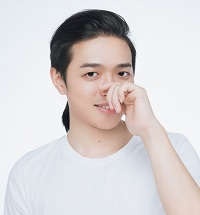
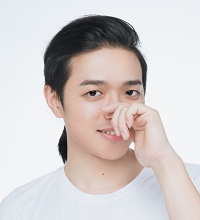
new photo and art part

diff --git a/index.html b/index.html
@@ -32,7 +32,7 @@
       <h1> Xin Chen - 陈欣 <br>
         <!--[CV - <a href="files/CV/chenxin_cv_cn_201803.pdf"><font size="4">中文</font></a> / <a href="files/CV/chenxin_cv_en_202007.pdf">English</a>]<br>-->
         <!--[CV - <font size="4">中文</font>/ <a href="files/CV/chenxin_cv_en_202011.pdf">English</a>]<br>-->
-        [<a href="files/CV/chenxin_cv_en_202108.pdf">Download CV</a>]<br>
+        <a href="files/CV/chenxin_cv_en_202108.pdf">Download CV</a> - 简历<br>
         [<a href="mailto:chenxin2@shanghaitech.edu.cn">Email</a> | <a href="https://github.com/ChenFengYe">GitHub</a> |
         <a href="https://www.linkedin.com/in/xin-chen-cs/">LinkedIn</a>]
         [<a href="https://aideadlin.es/?sub=ML,CV,NLP,RO,SP,DM">Conference Timer</a>]
@@ -47,6 +47,7 @@
           <ul class="menu">
             <!--<li><a href="index.html">Home</a></li-->
             <li class="mt-sm-0"><a href="#about" class="scroll">Bio</a></li>
+            <!-- <li class="mt-sm-3"><a href="./Art.html" class="scroll">Art</a></li> -->
             <li class="mt-sm-3"><a href="#publication" class="scroll">Publications</a></li>
             <li class="mt-sm-3"><a href="#experience" class="scroll">Experience</a></li>
             <li class="mt-sm-3"><a href="#skill" class="scroll">Skills</a></li>
@@ -103,20 +104,20 @@
         <h3 class="w3_head mb-5">Selected Publications <font size ="5"><a href="./Publication.html">(Complete List…)</a></font></h3>
         <!-- <h3 class="w3_head mb-5">Selected Publications (<a href="./Publication.html">Complete List…</a>)</h3> -->
         <div class="col-lg-12">
-          <div class="row paper-box">
+          <div class="row paper_box">
             <div class="col-md-3 col-12 paper_img"> <video
                 src="files/Paper/TOG2021_TightCap/project_page_TightCap/data/video_teaser.mp4" width="90%"
                 playsinline="" autoplay="autoplay" loop="loop" preload="" muted="" alt="Popup Image"
                 class="img-fluid"></div>
             <!-- .Icon ends here -->
-            <div class="col-md-9 col-12 paper-content">
+            <div class="col-md-9 col-12 paper_content">
               <h4><strong>TightCap</strong>: 3D Human Shape Capture with Clothing Tightness Field<br>
               </h4>
               <p><strong>Xin Chen</strong>, Anqi Pang, <a
                   href="https://scholar.google.com/citations?user=fRjxdPgAAAAJ&hl=en">Wei Yang</a>, Peihao Wang, <a
                   href="https://www.xu-lan.com/">Lan Xu</a>, <a href="http://www.yu-jingyi.com/">Jingyi Yu</a><br>
               </p>
-              <p>(<strong>TOG 2021</strong>) ACM Transactions on Graphics(Proce. of ACM <strong>SIGGRAPH</strong> 2022)</p>
+              <p>(<strong>TOG 2021</strong>) ACM Transactions on Graphics (Presented at ACM <strong>SIGGRAPH</strong> 2022)</p>
               <!-- <p class="text-left">We present TightCap, a data-driven scheme to capture both the human shape and dressed garments accurately with only a single 3D human scan. </p> -->
               <p>[<a href="./TightCap.html">ProjectPage</a>] [<a href="https://arxiv.org/abs/1904.02601">ArxivPage</a>]
                 [<a href="files/Paper\TOG2021_TightCap\project_page_TightCap\data\TightCap.pdf" target=_blank>Paper</a>]
@@ -127,12 +128,12 @@
             </div>
             <!-- .Service-content ends here -->
           </div>
-          <div class="row paper-box">
+          <div class="row paper_box">
             <div class="col-md-3 col-12 paper_img"> <video
                 src="files/Paper/IJCV2020_Sport/project_page_SportsCap/data/video_teaser.mp4" width="90%" playsinline=""
-                autoplay="autoplay" loop="loop" preload="" muted="" alt="Popup Image" class="img-fluid" /></div>
+                autoplay="autoplay" loop="loop" preload="" muted="" alt="Popup Image" class="img-fluid"></div>
             <!-- .Icon ends here -->
-            <div class="col-md-9 col-12 paper-content">
+            <div class="col-md-9 col-12 paper_content">
               <h4><strong>SportsCap</strong>: Monocular 3D Human Motion Capture and Fine-grained Understanding in
                 Challenging Sports Videos<br>
               </h4>
@@ -152,12 +153,12 @@
             </div>
             <!-- .Service-content ends here -->
           </div>
-          <div class="row paper-box">
+          <div class="row paper_box">
             <div class="col-md-3 col-12 paper_img"> <video src="files/Paper/CVPR2021_ChallenCap/video_teaser.mp4"
                 width="90%" playsinline="" autoplay="autoplay" loop="loop" preload="" muted="" alt="Popup Image"
                 class="img-fluid" /></div>
             <!-- .Icon ends here -->
-            <div class="col-md-9 col-12 paper-content">
+            <div class="col-md-9 col-12 paper_content">
               <h4><strong>ChallenCap</strong>: Monocular 3D Capture of Challenging Human Performances using Multi-Modal
                 References<br>
               </h4>
@@ -174,14 +175,14 @@
             </div>
             <!-- .Service-content ends here -->
           </div>
-          <div class="row paper-box">
+          <div class="row paper_box">
             <div class="col-md-3 col-12 paper_img"> 
                   <img 
                     src="files/Paper/AllPublications/AAAI2022.png" width="90%" playsinline=""
                     autoplay="autoplay" loop="loop" preload="" muted="" alt="Popup Image" class="img-fluid" />
                   </div>
                 <!-- .Icon ends here -->
-                <div class="col-md-9 col-12 paper-content">
+                <div class="col-md-9 col-12 paper_content">
                   <h4>Anisotropic Fourier Features for Neural Image-Based Rendering and Relighting</h4>
                   <p>Huangjie Yu, Anpei Chen, <strong>Xin Chen</strong>, <a
                       href="https://www.xu-lan.com/">Lan Xu</a>, Ziyu Shao, <a href="http://www.yu-jingyi.com/">Jingyi Yu</a></p>
@@ -191,12 +192,12 @@
                   </p>
                 </div>
             </div>              
-          <div class="row paper-box">
+          <div class="row paper_box">
             <div class="col-md-3 col-12 paper_img"> <video src="files/Paper/IJCAI2021_FewShot/video_teaser.mp4"
                 width="90%" playsinline="" autoplay="autoplay" loop="loop" preload="" muted="" alt="Popup Image"
                 class="img-fluid" /></div>
             <!-- .Icon ends here -->
-            <div class="col-md-9 col-12 paper-content">
+            <div class="col-md-9 col-12 paper_content">
               <h4>Few-shot Neural Human Performance Rendering from Sparse RGBD Videos<br>
               </h4>
               <p>Anqi Pang*, <strong>Xin Chen*</strong>, Haimin Luo, <a href="https://wuminye.com/">Mingye Wu</a>, <a
@@ -211,12 +212,12 @@
             </div>
             <!-- .Service-content ends here -->
           </div>
-          <div class="row paper-box">
+          <div class="row paper_box">
             <div class="col-md-3 col-12 paper_img"> <video src="files\Paper\MM2021_HOIFVV\video_teaser.mp4" width="90%"
                 playsinline="" autoplay="autoplay" loop="loop" preload="" muted="" alt="Popup Image"
                 class="img-fluid" /></div>
             <!-- .Icon ends here -->
-            <div class="col-md-9 col-12 paper-content">
+            <div class="col-md-9 col-12 paper_content">
               <h4>Neural Free-Viewpoint Performance Rendering under ComplexHuman-object Interactions<br>
               </h4>
               <p>Guoxing Sun, <strong>Xin Chen</strong>, Yizhang Chen, Anqi Pang, Pei Lin, Yuheng Jiang, <a
@@ -234,12 +235,12 @@
             </div>
             <!-- .Service-content ends here -->
           </div>
-          <div class="row paper-box">
+          <div class="row paper_box">
             <div class="col-md-3 col-12 paper_img"> <video src="files/Paper/ICME2019_Pose/pose2body_teaser.mp4"
                 width="90%" playsinline="" autoplay="autoplay" loop="loop" preload="" muted="" alt="Popup Image"
                 class="img-fluid" /></div>
             <!-- .Icon ends here -->
-            <div class="col-md-9 col-12 paper-content">
+            <div class="col-md-9 col-12 paper_content">
               <h4><strong>Pose2Body</strong>: Pose-Guided Human Parts Segmentation</h4>
               <p><strong>Xin Chen</strong>*, <a href="https://sites.google.com/site/lizhong19900216">Zhong Li</a>*,
                 Wangyiteng Zhou, Yingliang Zhang, <a href="http://www.yu-jingyi.com/">Jingyi Yu</a><br>
@@ -252,12 +253,12 @@
             </div>
             <!-- .Service-content ends here -->
           </div>
-          <div class="row paper-box">
+          <div class="row paper_box">
             <div class="col-md-3 col-12 paper_img"> <video src="files/Paper/CVPR2018_Face/3d_face.mp4" width="90%"
                 playsinline="" autoplay="autoplay" loop="loop" preload="" muted="" alt="Popup Image"
                 class="img-fluid"></div>
             <!-- .Icon ends here -->
-            <div class="col-md-9 col-12 paper-content">
+            <div class="col-md-9 col-12 paper_content">
               <h4>Sparse Photometric 3D Face Reconstruction Guided by Morphable Models</h4>
               <p> Xuan Cao, Zhang Chen, Anpei Chen, <strong>Xin Chen</strong>, Shiying Li, <a
                   href="http://www.yu-jingyi.com/">Jingyi Yu</a></p>
@@ -269,13 +270,13 @@
                   href="files/Paper/CVPR2018_Face/cao2018sparse.html" target=_blank>BibTex</a>] </p>
             </div>
           </div>
-          <div class="row paper-box">
+          <div class="row paper_box">
             <!-- <div class="col-md-3 col-12 paper_img"> <img src="files/Paper/TVCG2018_AutoSweep/AutoSweep.jpg" alt="Popup Image" class="img-fluid" /></div> -->
             <div class="col-md-3 col-12 paper_img"> <video
                 src="files/Paper/TVCG2018_AutoSweep/project_page_AutoSweep/data/video.mp4" width="90%" playsinline=""
                 autoplay="autoplay" loop="loop" preload="" muted="" alt="Popup Image" class="img-fluid" /></div>
             <!-- .Icon ends here -->
-            <div class="col-md-9 col-12 paper-content">
+            <div class="col-md-9 col-12 paper_content">
               <h4><strong>AutoSweep</strong>: Recovering 3D Editable Objects&nbsp;from a Single Photograph</h4>
               <p><strong>Xin Chen</strong>, <a href="http://liyuwei.cc/">Yuwei Li</a>, <a href="http://luoxi.tech/">Xi
                   Luo</a>, <a href="http://tianjiashao.com/">Tianjia Shao</a>, <a
@@ -292,11 +293,11 @@
               <br>
               <p><h4><a href="./Publication.html">See all publications ...</a></h4></p>
             </div>
-            <div class="row paper-box">
+            <div class="row paper_box">
               <!-- <div class="col-md-3 col-12 paper_img"> <img src="files/Paper/TVCG2018_AutoSweep/AutoSweep.jpg" alt="Popup Image" class="img-fluid" /></div> -->
               <div class="col-md-3 col-12 paper_img"></div>
               <!-- .Icon ends here -->
-              <div class="col-md-9 col-12 paper-content">
+              <div class="col-md-9 col-12 paper_content">
                 </p>
               </div>
             <!-- .Service-content ends here -->
@@ -307,7 +308,7 @@
     <!-- experience -->
     <section class="wedo" id="experience">
       <div class="experience">
-        <h3 class="w3_head mb-5">Experience</h3>
+        <h3 class="w3_head mb-1">Experience</h3>
         <div class="row service_w3top mt-5">
           <div class="col-xl-12">
             <div class="d-flex experience-box">
@@ -419,7 +420,7 @@
       </div>
     </section>
     <section class="wedo" id="-Supervisors">
-      <h3 class="w3_head col-md-12 mb-12"> Supervisors </h3>
+      <h3 class="w3_head mb-1"> Supervisors </h3>
       <div id="id4" style="clear:both"></div>
       <div class="col-md-5 col-12 people-content">
         <p class="banp mt-5"> <a href="http://www.yu-jingyi.com/">Prof. Jingyi Yu</a> - Supervisor </p>

diff --git a/css/style.css b/css/style.css
@@ -104,8 +104,8 @@ nav a {
 	color: #fff;
 	font-weight: 600;
 	letter-spacing: 1px;
-	text-transform: uppercase;
-	font-size: 15px;
+	/* text-transform: uppercase; */
+	font-size: 20px;
 	transition: 0.5s all;
 	-webkit-transition: 0.5s all;
 	-moz-transition: 0.5s all;
@@ -294,8 +294,17 @@ nav ul li {
 }
 .paper_img {
 	text-align: center;
-	float: center;
+	/* float: left; */
 	padding-top: 5px;
+	/* vertical-align:middle; */
+	/*height: 200px;*/    
+	/*height:80px;*/    
+}
+.paper_content {
+	text-align: left;
+	/* float: left; */
+	padding-top: 5px;
+	/* vertical-align:middle; */
 	/*height: 200px;*/    
 	/*height:80px;*/    
 }
@@ -306,8 +315,19 @@ nav ul li {
 	height: auto;
 	width: 100%;
 	padding-right: 5px;/*height:80px;*/
-	max-height: 200px;
-	max-width: 180px;
+	max-height: 400px;
+	max-width: 300px;
+	padding-left: 5px;
+}
+.paper_img video {
+	/*float:left;*/
+	padding-top: 5px;
+	text-align: center;
+	height: auto;
+	width: 100%;
+	padding-right: 5px;/*height:80px;*/
+	max-height: 400px;
+	max-width: 300px;
 	padding-left: 5px;
 }
 
@@ -397,7 +417,10 @@ header {
 }
 .side_top {
 	text-align: right;
-	padding: 6em 2.5em 0;
+	padding: 4em 2.5em 0;
+}
+.side_top img {
+	max-width: 200px;
 }
 .banner-text-w3ls {
 	padding: 3em 3em 3em 3em;
@@ -864,13 +887,14 @@ section.gallery div {
 	border-radius: 100px;
 	color: #e7746f;
 }
-.paper-box {
+.paper_box {
 	margin-bottom: 6px;
 	padding: 6px 0;
 	transition: all 1s;
 	-moz-transition: all 1s;
 	/* Firefox 4 */
 	-webkit-transition: all 1s;
+	vertical-align:middle;
 	/* Safari and Chrome */
 	-o-transition: all 1s;/* Opera */
 }
@@ -1084,9 +1108,10 @@ section.slide-wrapper {
 	margin-bottom: 0px;
 	padding: 20px 0;
 }
-.paper-box {
+.paper_box {
 	margin-bottom: 0px;
 	padding: 10px 0;
+	/* vertical-align:middle; */
 }
 .wedo {
 	padding: 2em 1em;

diff --git a/files/Paper/TOG2021_TightCap/project_page_TightCap/index.htm b/files/Paper/TOG2021_TightCap/project_page_TightCap/index.htm
@@ -56,7 +56,7 @@
 					<sup>3</sup><a href="https://www.hust.edu.cn/" target="_blank">Huazhong University of Science and Technology</a>&#160;&#160;
 				</div>
 
-				<div class="venue"><a href="https://s2022.siggraph.org/" target="_blank">TOG 2021 - ACM Transactions on Graphics (Proceedings of ACM SIGGRAPH 2022)</a></div>
+				<div class="venue"><a href="https://s2022.siggraph.org/" target="_blank">TOG 2021 - ACM Transactions on Graphics (Presented at ACM SIGGRAPH 2022)</a></div>
 				<!-- <div class="venue">(Special issue in human pose, motion, activities, and shape in 3d)</div> -->
 			</div>
 			<div class="section teaser">
@@ -152,7 +152,7 @@
 @article{chen2021tightcap,
   title={TightCap: 3D Human Shape Capture with Clothing Tightness Field},
   author={Chen, Xin and Pang, Anqi and Wei, Yang and Peihao, Wang and Xu, Lan and Yu, Jingyi},
-  journal={ACM Transactions on Graphics (Proceedings of ACM SIGGRAPH)},
+  journal={ACM Transactions on Graphics (Presented at ACM SIGGRAPH)},
   year={2021}
 }
 </div>
